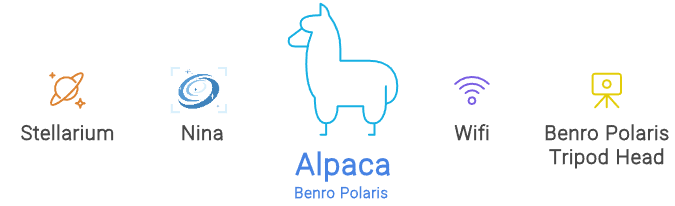
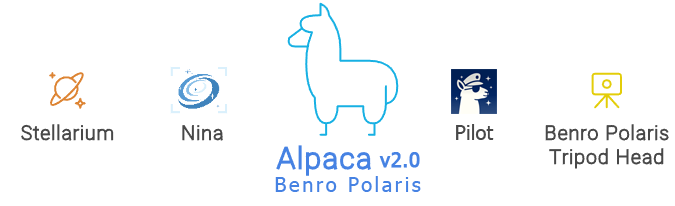
fix(docs): Update readme image and ref to Kickstarter project

Changed region(s): [[0.4044, 0.699, 0.6222, 0.9612], [0.6533, 0.3204, 0.7467, 0.5534], [0.6533, 0.5825, 0.7467, 0.699]]

diff --git a/README.md b/README.md
@@ -4,7 +4,9 @@
 ![Overview](docs/images/abp-overview.png)
 
 
-Are you interested in trying your hand at amateur astrophotography? Invest in a [Benro Polaris with its Astro Kit](https://www.benro-polaris.com/), and this project will transform it from a great Tripod Head to a full-featured, open Telescope Mount. This project aims to provide users with a way to control their Benro Polaris using more advanced astrophotography software, including [Stellarium](https://stellarium.org/en/), [Nina](https://nighttime-imaging.eu/), and other applications that support the ASCOM Alpaca platform. 
+Are you interested in trying your hand at amateur astrophotography? Invest in a [Benro Polaris with its Astro Kit](https://www.benro-polaris.com/), and this project will transform it from a great Tripod Head to a full-featured, open Telescope Mount. 
+
+This [Kickstarter Project](https://www.kickstarter.com/projects/jdmorriso/alpaca-benro-polaris-driver-v20?ref=7xf94o) aims to provide backers with a way to control their Benro Polaris using more advanced astrophotography software, including [Stellarium](https://stellarium.org/en/), [Nina](https://nighttime-imaging.eu/), [CCDceil](https://www.ap-i.net/ccdciel/en/start) and other applications that support the ASCOM Alpaca platform. 
 
 # Intended Audience
 Just starting in Astrophotography and the Benro Polaris, then check out our [Beginners and Learning Guide](docs/beginners.md) to help learn the basics. The project documentation and features target individuals familiar with astrophotography concepts and software like deep sky astronomy, image sequencing, plate solving, polar alignment, equatorial coordinates, and image stacking. The software is intended for users comfortable with technical setups involving MacOS or Windows, mini-PCs, Command Windows, and Networks, as these are presented as options for running the Alpaca-Benro-Polaris Driver.
